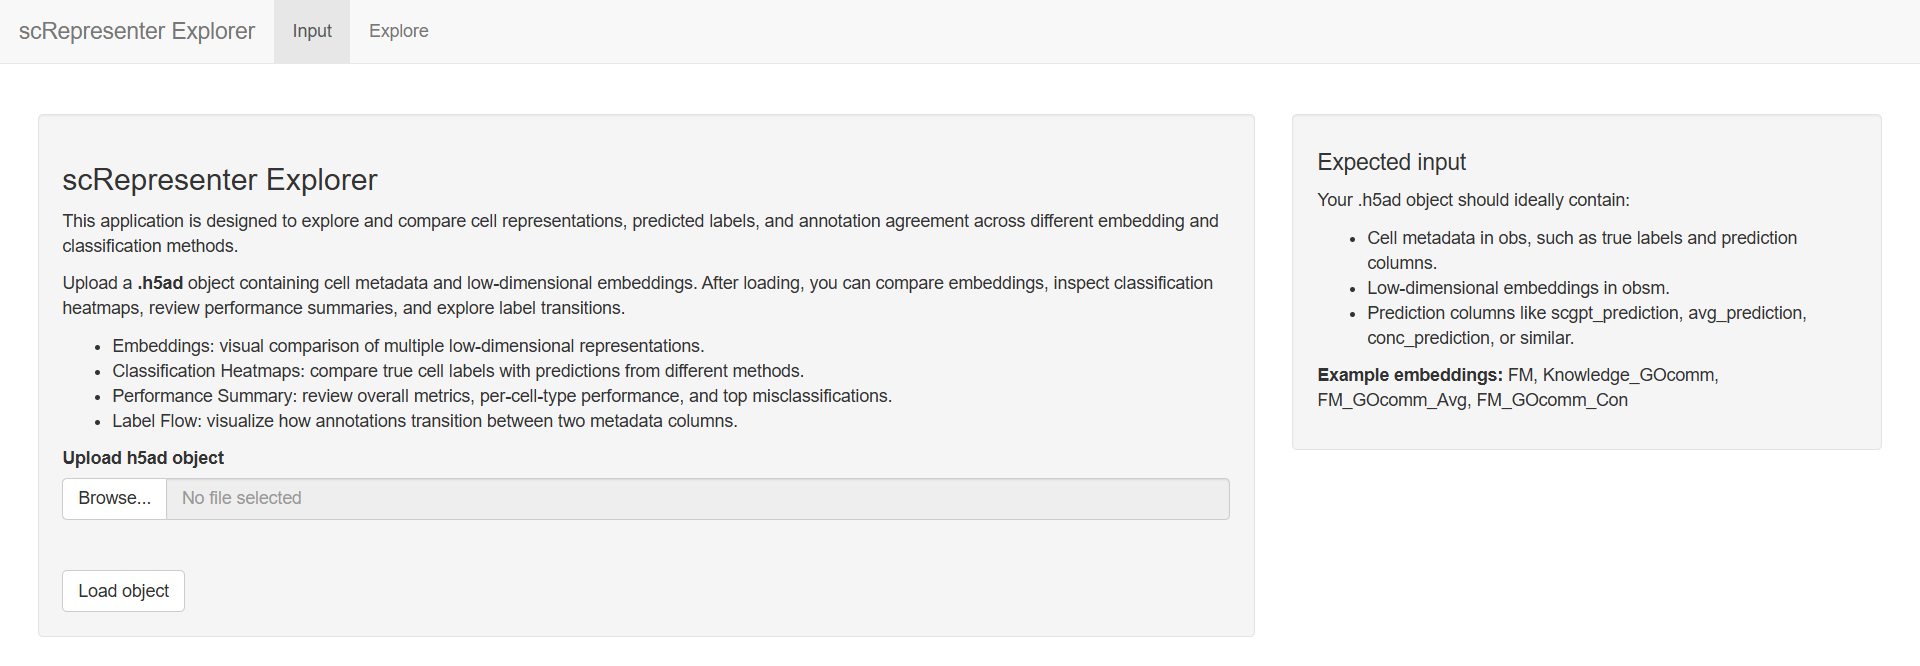
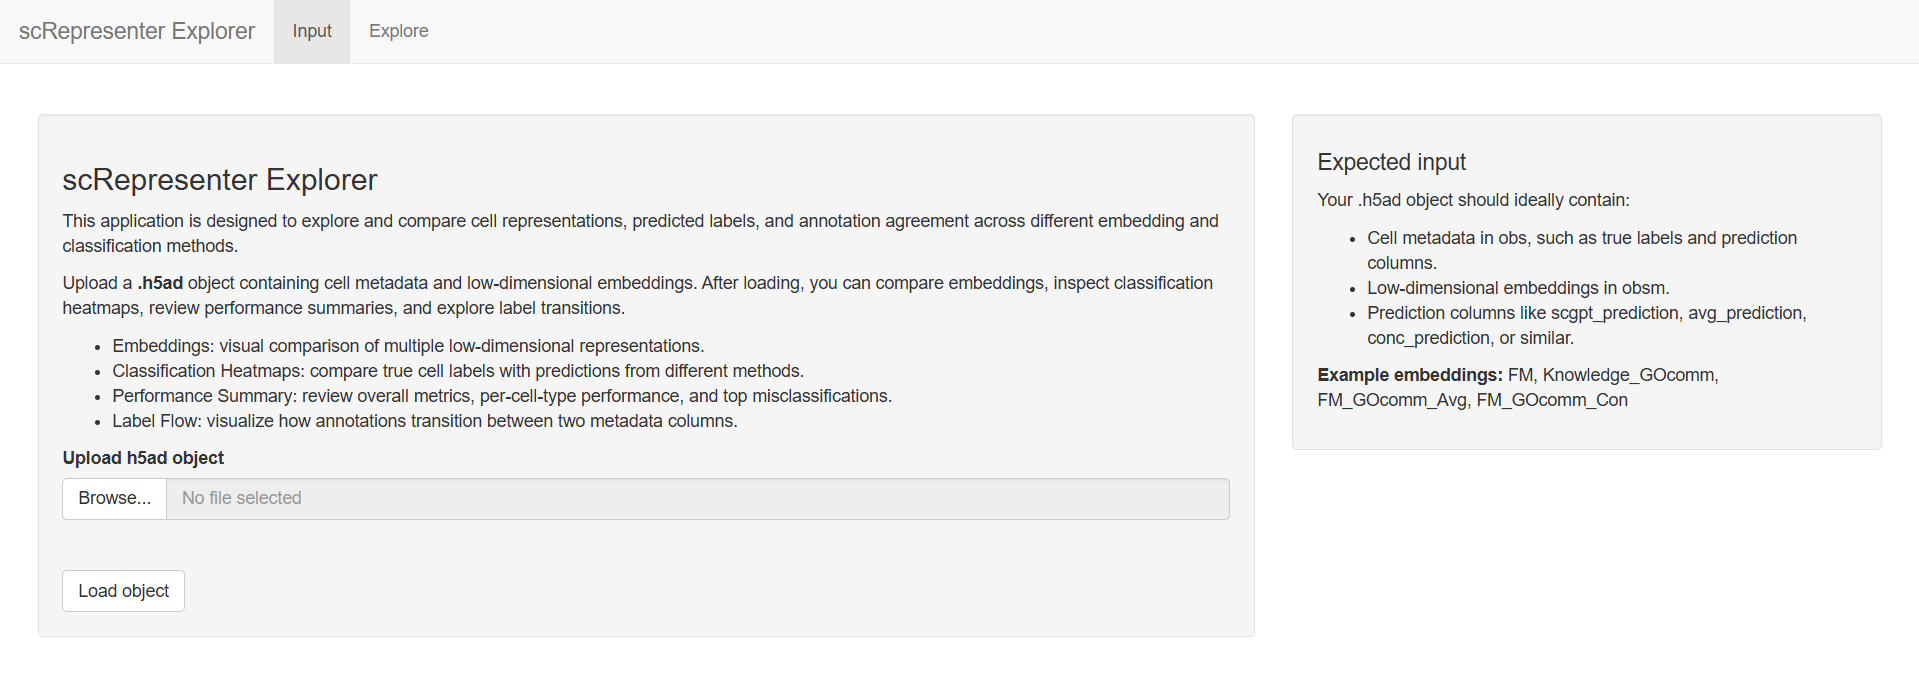
remove old img

diff --git a/README.md b/README.md
@@ -151,7 +151,7 @@ docker run -p 3838:3838 shiny-app
 
 The application can then accessed through ```http://localhost:3838/``` using your internet browser. Any H5 embedding object produced by the pipeline can be uploaded here, and the specific embeddings described in the scRepresenter paper can be found [here](https://drive.google.com/file/d/19NVlnrTCTDOW9tHsVgjekZEyGVTTS1wJ/view?usp=sharing.)
 
-![shiny start](docs/shiny_start2.png)
+![shiny start](docs/shiny_start.png)
 
 First off, upload the desired .h5ad object, which should be the output of the scRepresenter pipeline. Additionally, in order to compare embeddings, you will need to classify each cell's embedding (see the [Classification notebook](https://github.com/GuilhermePocas/scRepresenter/blob/main/scripts/Classification.ipynb)). After pressing the "Load Object" button you will see a short summary of the object's available embeddings, as well as its metada columns.
 
